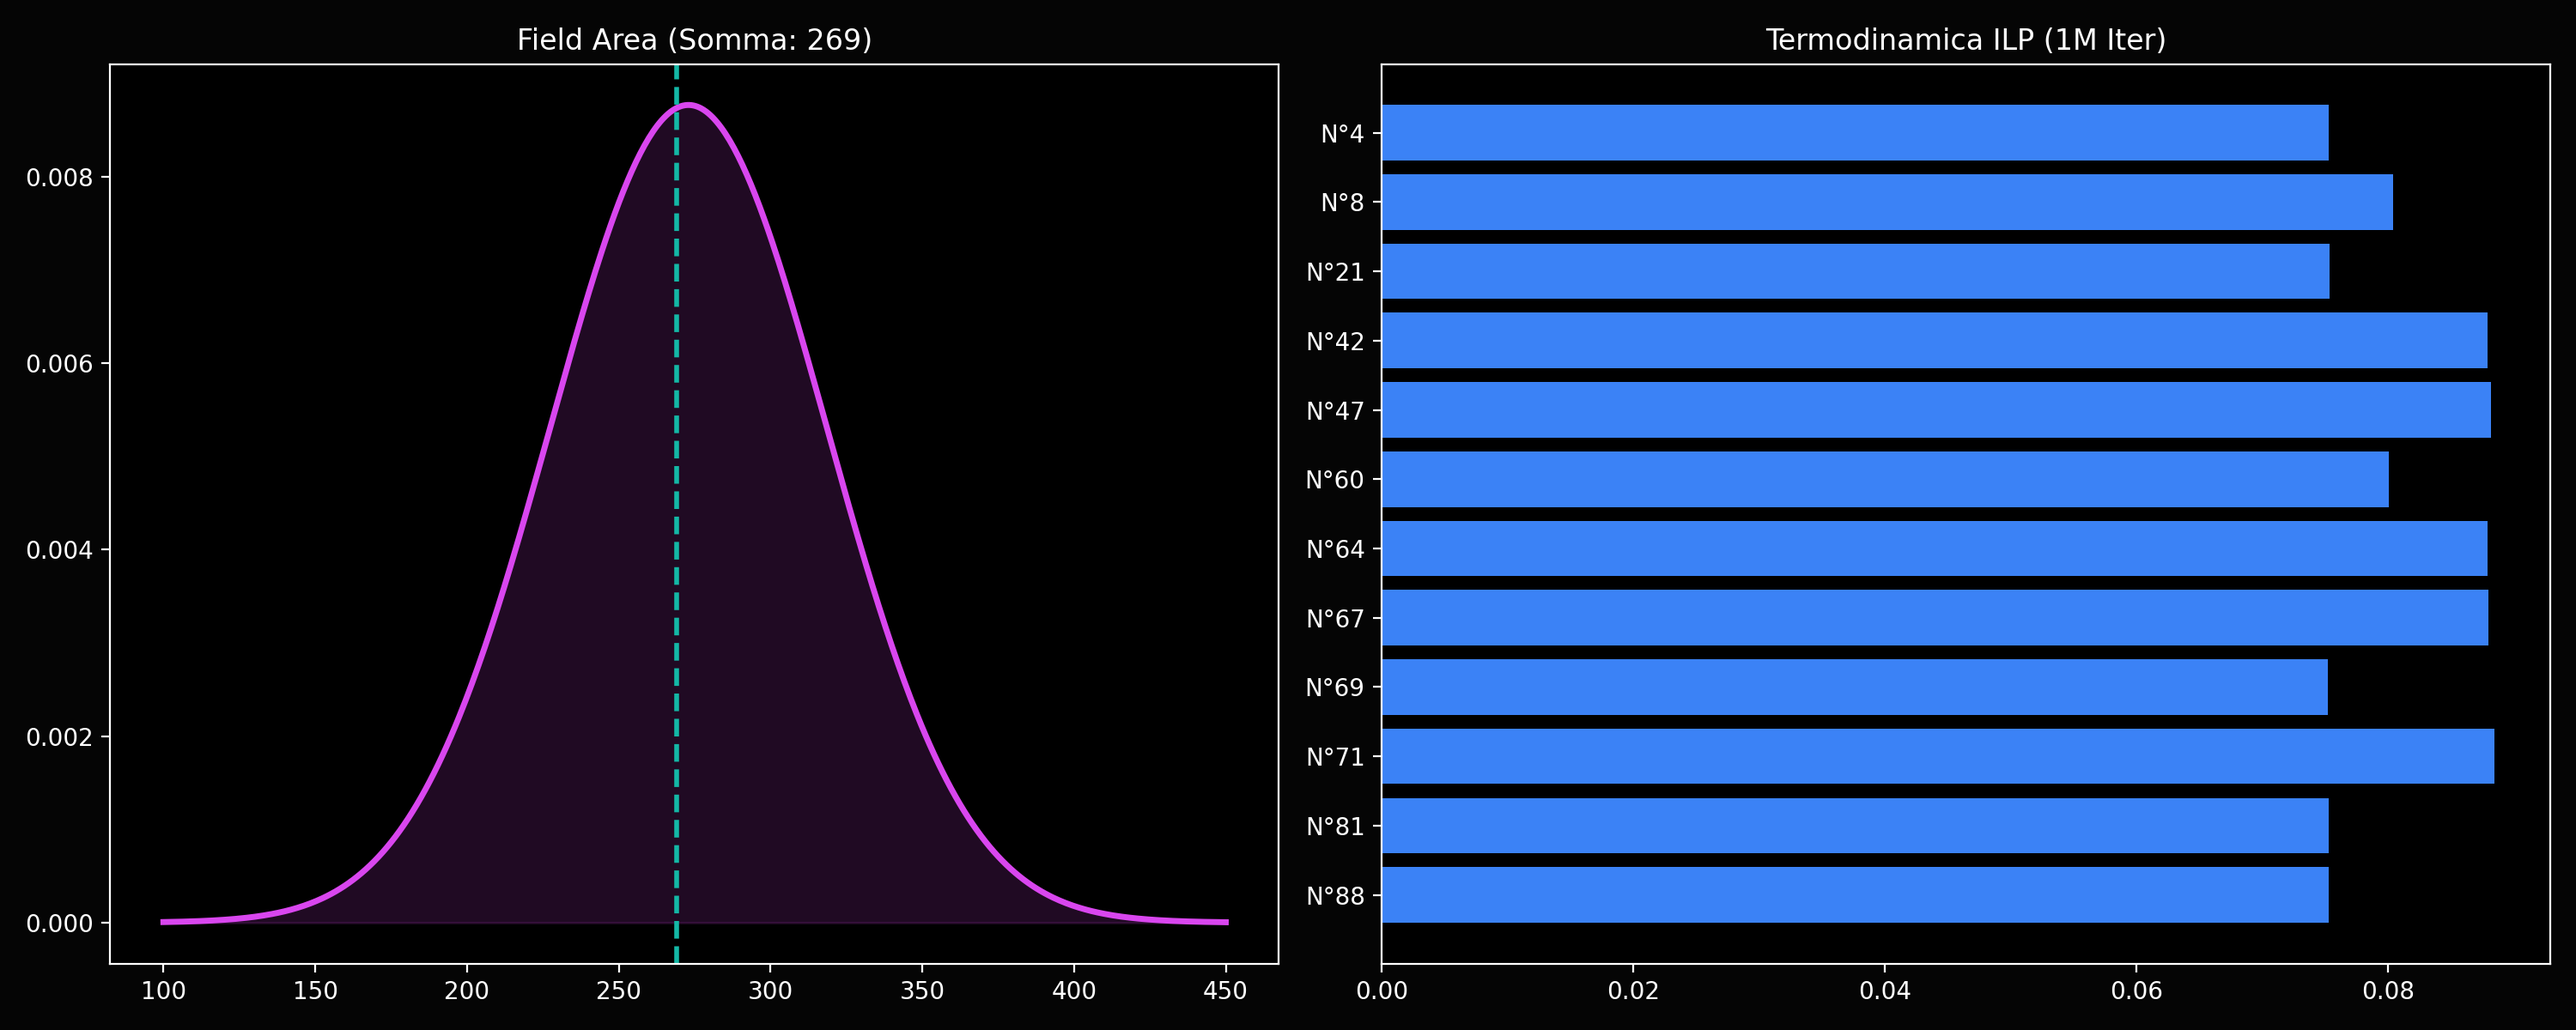
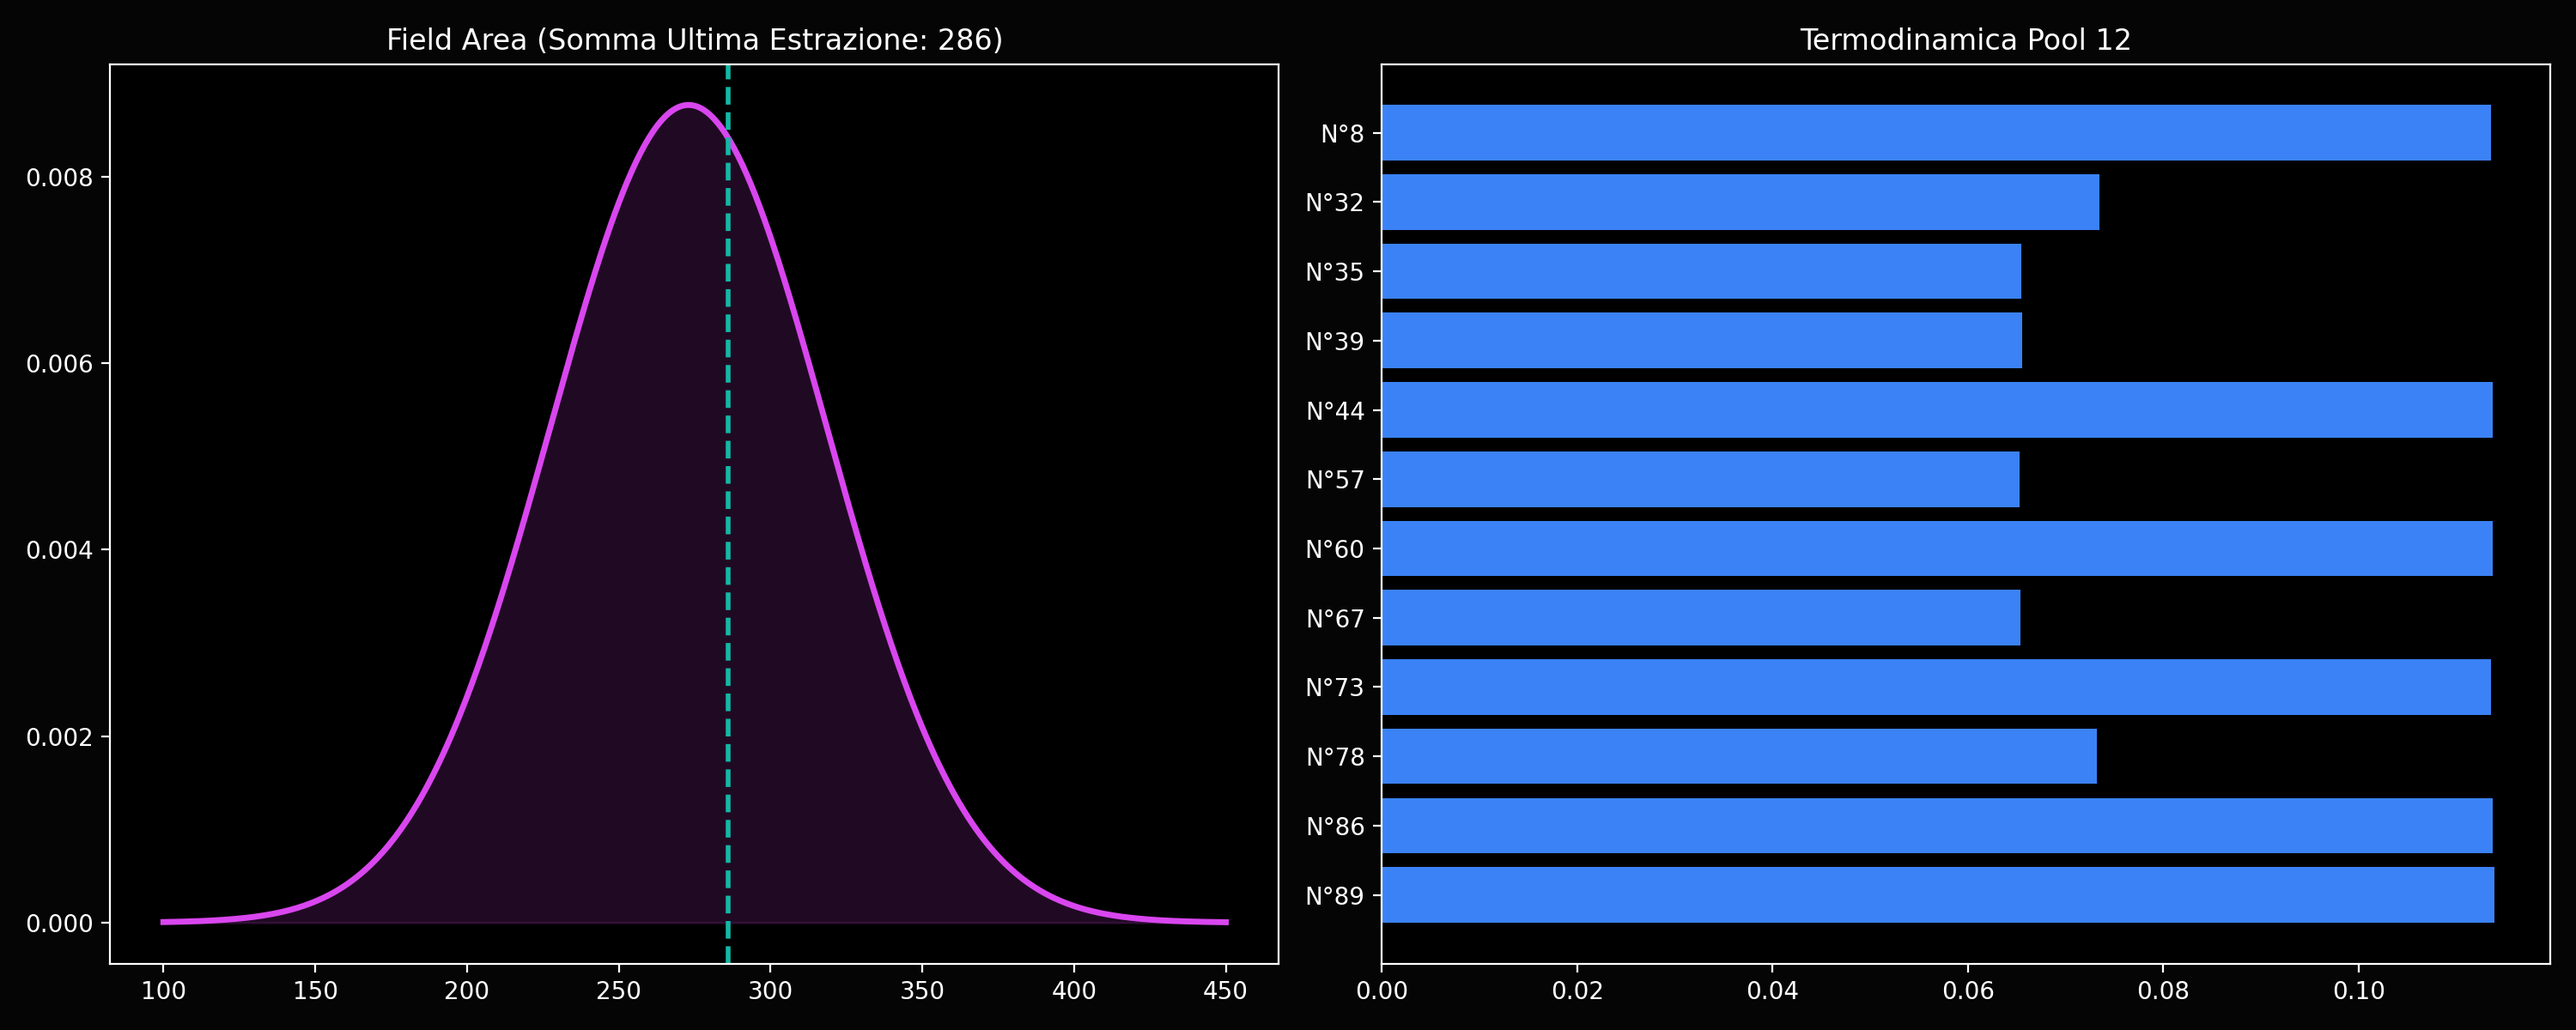
Auto-sync database e predizioni TITAN [skip ci]

diff --git a/index.html b/index.html
@@ -1,82 +1,1 @@
-
-    <!DOCTYPE html>
-    <html lang="it">
-    <head>
-        <meta charset="UTF-8">
-        <meta name="viewport" content="width=device-width, initial-scale=1.0">
-        <title>TITAN GOD MODE - Dashboard</title>
-        <style>
-            body { background-color: #09090b; color: #f8fafc; font-family: sans-serif; padding: 2rem; margin: 0; }
-            .container { max-width: 900px; margin: 0 auto; background: #18181b; padding: 2rem; border-radius: 12px; border: 1px solid #27272a; }
-            h1 { color: #a855f7; text-align: center; text-transform: uppercase; }
-            .data-box { display: flex; justify-content: space-between; background: #27272a; padding: 1.5rem; border-radius: 8px; margin-bottom: 2rem; }
-            .data-item { text-align: center; }
-            .data-item strong { font-size: 1.5rem; color: #34d399; }
-            .sestina-card { background: #09090b; border: 1px solid #3f3f46; border-left: 5px solid #3b82f6; padding: 1.5rem; margin-bottom: 1rem; border-radius: 6px; display: flex; justify-content: space-between; align-items: center; }
-            .nums { font-size: 1.4rem; font-weight: bold; color: #f8fafc; }
-            .pool { background: #27272a; padding: 1rem; border-radius: 8px; text-align: center; font-size: 1.2rem; color: #a855f7; margin-bottom: 2rem; border: 1px dashed #a855f7; }
-        </style>
-    </head>
-    <body>
-        <div class="container">
-            <h1>TITAN God Mode V2</h1>
-            <div class="data-box">
-                <div class="data-item"><span>Concorso</span><br><strong>N° N/A</strong></div>
-                <div class="data-item"><span>Data</span><br><strong>10/09/2026</strong></div>
-                <div class="data-item"><span>Jackpot</span><br><strong>€ 10</strong></div>
-            </div>
-            
-            <h3 style="color: #a1a1aa;">Ultima Estrazione Venus</h3>
-            <div class="pool" style="color: #34d399;">
-                [2, 17, 39, 59, 63, 89] &nbsp;|&nbsp; Jolly: N/A &nbsp;|&nbsp; SuperStar: N/A
-            </div>
-
-            <h3 style="color: #a1a1aa;">Dodecaedro Quantistico (12 Numeri)</h3>
-            <div class="pool">[4, 8, 21, 42, 47, 60, 64, 67, 69, 71, 81, 88]</div>
-
-            <h3 style="color: #a1a1aa;">Matrice Ottimizzata (Max EV)</h3>
-    
-            <div class="sestina-card">
-                <div>
-                    <div style="font-size: 0.8rem; color: #3b82f6;">TITAN 1</div>
-                    <div class="nums">[60, 64, 67, 71, 81, 88]</div>
-                </div>
-                <div style="text-align: right; color: #a1a1aa;">
-                    Somma: 431<br>
-                    EV Score: <strong style="color: #fbbf24;">10.0 ⚡</strong>
-                </div>
-            </div>
-        
-            <div class="sestina-card">
-                <div>
-                    <div style="font-size: 0.8rem; color: #3b82f6;">TITAN 2</div>
-                    <div class="nums">[60, 64, 69, 71, 81, 88]</div>
-                </div>
-                <div style="text-align: right; color: #a1a1aa;">
-                    Somma: 433<br>
-                    EV Score: <strong style="color: #fbbf24;">10.0 ⚡</strong>
-                </div>
-            </div>
-        
-            <div class="sestina-card">
-                <div>
-                    <div style="font-size: 0.8rem; color: #3b82f6;">TITAN 3</div>
-                    <div class="nums">[60, 67, 69, 71, 81, 88]</div>
-                </div>
-                <div style="text-align: right; color: #a1a1aa;">
-                    Somma: 436<br>
-                    EV Score: <strong style="color: #fbbf24;">10.0 ⚡</strong>
-                </div>
-            </div>
-        
-            <div class="sestina-card">
-                <div>
-                    <div style="font-size: 0.8rem; color: #3b82f6;">TITAN 4</div>
-                    <div class="nums">[64, 67, 69, 71, 81, 88]</div>
-                </div>
-                <div style="text-align: right; color: #a1a1aa;">
-                    Somma: 440<br>
-                    EV Score: <strong style="color: #fbbf24;">10.0 ⚡</strong>
-                </div>
-            </div>
-        </div></body></html>
+<!DOCTYPE html><html lang="it"><head><meta charset="UTF-8"><meta name="viewport" content="width=device-width, initial-scale=1.0"><title>TITAN GOD MODE</title><style>body { background: #09090b; color: #f8fafc; font-family: sans-serif; padding: 2rem; } .container { max-width: 900px; margin: 0 auto; background: #18181b; padding: 2rem; border-radius: 12px; } h1 { color: #a855f7; text-align: center; } .data-box { display: flex; justify-content: space-between; background: #27272a; padding: 1.5rem; border-radius: 8px; margin-bottom: 2rem; } .data-item strong { font-size: 1.5rem; color: #34d399; } .pool { background: #27272a; padding: 1rem; border-radius: 8px; text-align: center; font-size: 1.2rem; color: #a855f7; margin-bottom: 2rem; border: 1px dashed #a855f7; } .card { background: #09090b; border-left: 5px solid #3b82f6; padding: 1.5rem; margin-bottom: 1rem; display: flex; justify-content: space-between; align-items: center; } .nums { font-size: 1.4rem; font-weight: bold; }</style></head><body><div class="container"><h1>TITAN God Mode Optimal</h1><div class="data-box"><div class="data-item">Concorso<br><strong>N° 144</strong></div><div class="data-item">Data<br><strong>09/09/2026</strong></div><div class="data-item">Jackpot<br><strong>€ 222.400.000</strong></div></div><h3 style="color: #a1a1aa;">Ultima Estrazione</h3><div class="pool" style="color: #34d399;">[23, 26, 41, 52, 59, 85] | Jolly: N/A | SuperStar: N/A</div><h3 style="color: #a1a1aa;">Dodecaedro A.I.</h3><div class="pool">[8, 32, 35, 39, 44, 57, 60, 67, 73, 78, 86, 89]</div><h3 style="color: #a1a1aa;">Matrice Ottimizzata</h3><div class="card"><div><div style="color: #3b82f6; font-size: 0.8rem;">TITAN 1</div><div class="nums">[32, 35, 39, 57, 67, 78]</div></div><div style="text-align: right; color: #a1a1aa;">Somma: 308<br>EV Score: <strong style="color: #fbbf24;">10.0 ⚡</strong></div></div><div class="card"><div><div style="color: #3b82f6; font-size: 0.8rem;">TITAN 2</div><div class="nums">[35, 39, 44, 57, 67, 78]</div></div><div style="text-align: right; color: #a1a1aa;">Somma: 320<br>EV Score: <strong style="color: #fbbf24;">10.0 ⚡</strong></div></div><div class="card"><div><div style="color: #3b82f6; font-size: 0.8rem;">TITAN 3</div><div class="nums">[35, 39, 57, 60, 67, 78]</div></div><div style="text-align: right; color: #a1a1aa;">Somma: 336<br>EV Score: <strong style="color: #fbbf24;">10.0 ⚡</strong></div></div><div class="card"><div><div style="color: #3b82f6; font-size: 0.8rem;">TITAN 4</div><div class="nums">[32, 35, 39, 44, 57, 67]</div></div><div style="text-align: right; color: #a1a1aa;">Somma: 274<br>EV Score: <strong style="color: #fbbf24;">10.0 ⚡</strong></div></div></div></body></html>
